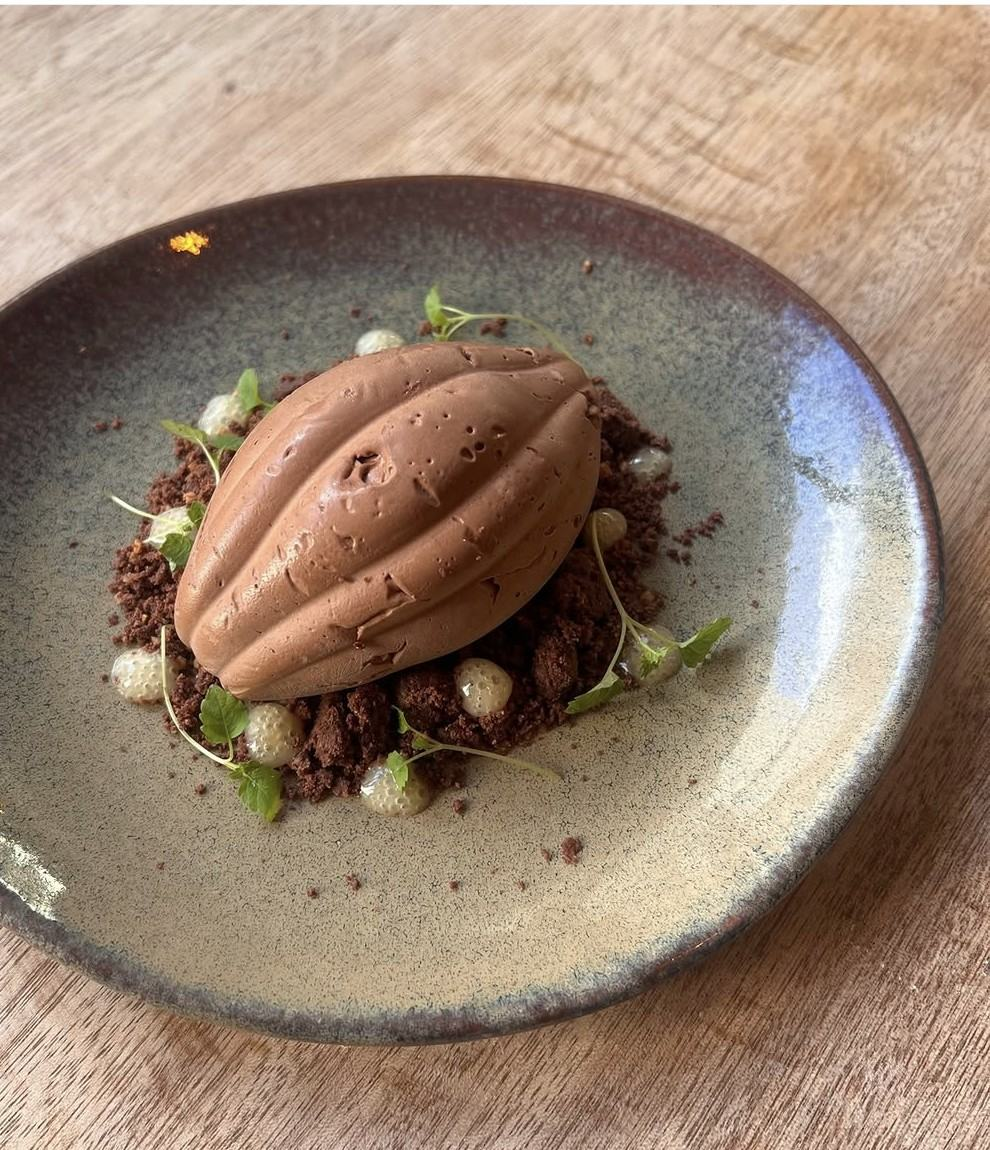
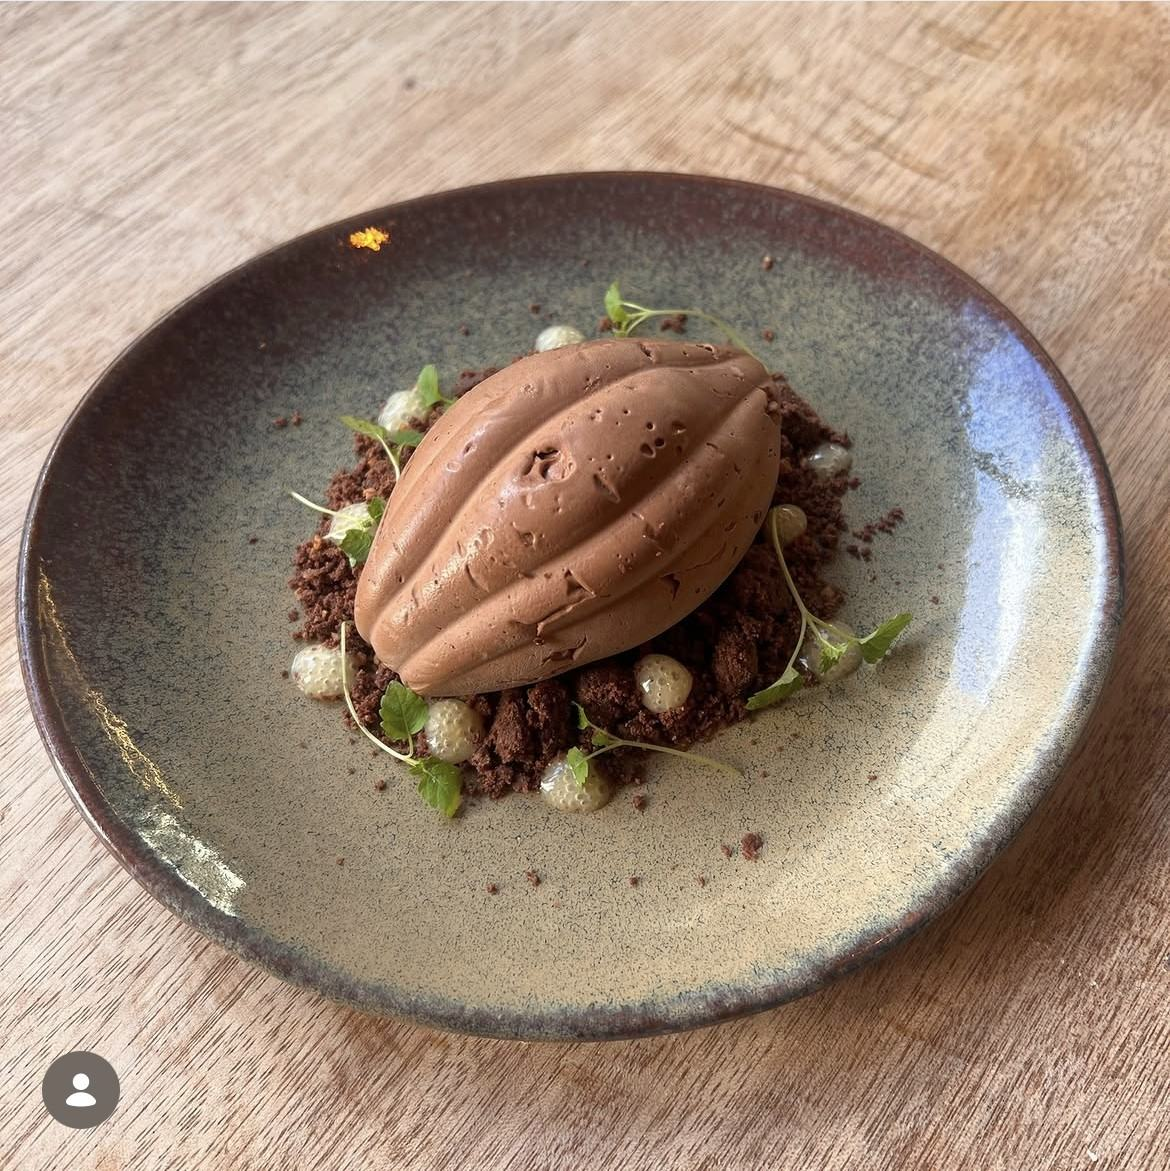
actualise
actu

diff --git a/it/restaurant.html b/it/restaurant.html
@@ -122,7 +122,7 @@
     <hr class="divider">
     <div class="actus-grid">
       <img src="../img/resto-plat-chou-fleur.jpg" alt="Cavolfiore in tre modi, purea di cavolfiore al tahini, cavolfiore arrosto, tabbouleh di cavolfiore" style="border-radius:6px;height:220px;width:100%;object-fit:cover;">
-      <img src="../img/resto-plat-tataki.jpg" alt="Tataki di tonno, purea di avocado al caffè, chimichurri filippino" style="border-radius:6px;height:220px;width:100%;object-fit:cover;">
+      <img src="../img/resto-plat-ravioles.jpg" alt="Ravioli gratinati allo zafferano, specialità di Franquette" style="border-radius:6px;height:220px;width:100%;object-fit:cover;">
       <img src="../img/resto-plat-chocolat.jpg" alt="Entremet al cioccolato e caffè a forma di baccello di cacao" style="border-radius:6px;height:220px;width:100%;object-fit:cover;">
     </div>
   </div>

diff --git a/de/restaurant.html b/de/restaurant.html
@@ -122,7 +122,7 @@
     <hr class="divider">
     <div class="actus-grid">
       <img src="../img/resto-plat-chou-fleur.jpg" alt="Blumenkohl auf drei Arten, Blumenkohlpüree mit Tahini, gerösteter Blumenkohl, Blumenkohl-Taboulé" style="border-radius:6px;height:220px;width:100%;object-fit:cover;">
-      <img src="../img/resto-plat-tataki.jpg" alt="Thunfisch-Tataki, Avocadopüree mit Kaffee, philippinisches Chimichurri" style="border-radius:6px;height:220px;width:100%;object-fit:cover;">
+      <img src="../img/resto-plat-ravioles.jpg" alt="Gratinierte Safran-Ravioli, die Spezialität von Franquette" style="border-radius:6px;height:220px;width:100%;object-fit:cover;">
       <img src="../img/resto-plat-chocolat.jpg" alt="Schokoladen-Kaffee-Entremet in Form einer Kakaoschote" style="border-radius:6px;height:220px;width:100%;object-fit:cover;">
     </div>
   </div>

diff --git a/restaurant.html b/restaurant.html
@@ -186,7 +186,7 @@
     <hr class="divider">
     <div class="actus-grid">
       <img src="img/resto-plat-chou-fleur.jpg" alt="Chou-fleur en trois façons, purée de chou-fleur au tahini, chou-fleur rôti, taboulé de chou-fleur" style="border-radius:6px;height:220px;width:100%;object-fit:cover;">
-      <img src="img/resto-plat-tataki.jpg" alt="Tataki de thon, purée d&rsquo;avocat au café, chimichurri philippin" style="border-radius:6px;height:220px;width:100%;object-fit:cover;">
+      <img src="img/resto-plat-ravioles.jpg" alt="Ravioles safranées gratinées, spécialité de Franquette" style="border-radius:6px;height:220px;width:100%;object-fit:cover;">
       <img src="img/resto-plat-chocolat.jpg" alt="Entremet chocolat et café en forme de cabosse de cacao" style="border-radius:6px;height:220px;width:100%;object-fit:cover;">
     </div>
   </div>

diff --git a/nl/restaurant.html b/nl/restaurant.html
@@ -122,7 +122,7 @@
     <hr class="divider">
     <div class="actus-grid">
       <img src="../img/resto-plat-chou-fleur.jpg" alt="Bloemkool op drie manieren, bloemkoolpuree met tahini, geroosterde bloemkool, bloemkooltabouleh" style="border-radius:6px;height:220px;width:100%;object-fit:cover;">
-      <img src="../img/resto-plat-tataki.jpg" alt="Tonijntataki, avocadopuree met koffie, Filipijnse chimichurri" style="border-radius:6px;height:220px;width:100%;object-fit:cover;">
+      <img src="../img/resto-plat-ravioles.jpg" alt="Gegratineerde saffraanravioli, specialiteit van Franquette" style="border-radius:6px;height:220px;width:100%;object-fit:cover;">
       <img src="../img/resto-plat-chocolat.jpg" alt="Chocolade-koffie-entremet in de vorm van een cacaopeul" style="border-radius:6px;height:220px;width:100%;object-fit:cover;">
     </div>
   </div>

diff --git a/en/restaurant.html b/en/restaurant.html
@@ -122,7 +122,7 @@
     <hr class="divider">
     <div class="actus-grid">
       <img src="../img/resto-plat-chou-fleur.jpg" alt="Cauliflower three ways, tahini cauliflower purée, roasted cauliflower, cauliflower tabbouleh" style="border-radius:6px;height:220px;width:100%;object-fit:cover;">
-      <img src="../img/resto-plat-tataki.jpg" alt="Tuna tataki, coffee avocado purée, Filipino chimichurri" style="border-radius:6px;height:220px;width:100%;object-fit:cover;">
+      <img src="../img/resto-plat-ravioles.jpg" alt="Gratinated saffron ravioles, Franquette's signature dish" style="border-radius:6px;height:220px;width:100%;object-fit:cover;">
       <img src="../img/resto-plat-chocolat.jpg" alt="Chocolate and coffee entremet shaped like a cocoa pod" style="border-radius:6px;height:220px;width:100%;object-fit:cover;">
     </div>
   </div>

diff --git a/cafe.html b/cafe.html
@@ -41,6 +41,7 @@
     <div>
       <h2 data-txt="cafe.presentation_titre">Le soleil en terrasse de comptoir</h2>
       <p data-txt="cafe.presentation_p1">Pour les amateurs de café, Franquette sert le café de spécialité &Iuml;ota, torréfié par Maxime Henneux à Gordes, dans le Luberon. Et pour tous les autres&nbsp;: matcha, thé à la menthe, jus du jour&hellip;</p>
+      <p data-txt="cafe.presentation_p2">Cookies, cakes et toasts, du petit-déjeuner au goûter. Et à midi, nos ravioles safranées&nbsp;: la spécialité de Franquette depuis 2019&nbsp;!</p>
       <a href="index.html#univers" class="btn dark">Tout Franquette</a>
     </div>
     <div class="split-photos">

diff --git a/de/cafe.html b/de/cafe.html
@@ -41,6 +41,7 @@
     <div>
       <h2 data-txt="cafe.presentation_titre">Sonne an der Theke</h2>
       <p data-txt="cafe.presentation_p1">Für Kaffeeliebhaber serviert Franquette den Spezialitätenkaffee &Iuml;ota, geröstet von Maxime Henneux in Gordes, im Luberon. Und für alle anderen: Matcha, Pfefferminztee, Saft des Tages&hellip;</p>
+      <p data-txt="cafe.presentation_p2">Cookies, Kuchen und Toasts, vom Frühstück bis zum Nachmittagssnack. Und mittags unsere Safran-Ravioli: die Spezialität von Franquette seit 2019!</p>
       <a href="index.html#univers" class="btn dark">Ganz Franquette</a>
     </div>
     <div class="split-photos">

diff --git a/en/cafe.html b/en/cafe.html
@@ -41,6 +41,7 @@
     <div>
       <h2 data-txt="cafe.presentation_titre">Sunshine at the counter</h2>
       <p data-txt="cafe.presentation_p1">For coffee lovers, Franquette serves &Iuml;ota specialty coffee, roasted by Maxime Henneux in Gordes, in the Luberon. And for everyone else: matcha, mint tea, juice of the day&hellip;</p>
+      <p data-txt="cafe.presentation_p2">Cookies, cakes and toasts, from breakfast to afternoon snack. And at lunchtime, our saffron ravioles: Franquette&rsquo;s signature dish since 2019!</p>
       <a href="index.html#univers" class="btn dark">All of Franquette</a>
     </div>
     <div class="split-photos">

diff --git a/it/cafe.html b/it/cafe.html
@@ -41,6 +41,7 @@
     <div>
       <h2 data-txt="cafe.presentation_titre">Il sole al bancone</h2>
       <p data-txt="cafe.presentation_p1">Per gli amanti del caffè, Franquette serve il caffè speciale &Iuml;ota, tostato da Maxime Henneux a Gordes, nel Luberon. E per tutti gli altri: matcha, tè alla menta, succo del giorno&hellip;</p>
+      <p data-txt="cafe.presentation_p2">Cookies, cake e toast, dalla colazione alla merenda. E a pranzo, i nostri ravioli allo zafferano: la specialità di Franquette dal 2019!</p>
       <a href="index.html#univers" class="btn dark">Tutto Franquette</a>
     </div>
     <div class="split-photos">

diff --git a/nl/cafe.html b/nl/cafe.html
@@ -41,6 +41,7 @@
     <div>
       <h2 data-txt="cafe.presentation_titre">Zon aan de toog</h2>
       <p data-txt="cafe.presentation_p1">Voor koffieliefhebbers serveert Franquette specialty koffie van &Iuml;ota, gebrand door Maxime Henneux in Gordes, in de Luberon. En voor alle anderen: matcha, muntthee, sap van de dag&hellip;</p>
+      <p data-txt="cafe.presentation_p2">Cookies, cakes en toasts, van ontbijt tot vieruurtje. En &rsquo;s middags onze saffraanravioli: de specialiteit van Franquette sinds 2019!</p>
       <a href="index.html#univers" class="btn dark">Heel Franquette</a>
     </div>
     <div class="split-photos">

diff --git a/css/style.css b/css/style.css
@@ -60,9 +60,9 @@ header {
   position: fixed;
   top: 0; left: 0; right: 0;
   z-index: 100;
-  background: rgba(255, 253, 250, 0.95);
+  background: rgba(217, 192, 156, 0.95);
   backdrop-filter: blur(6px);
-  border-bottom: 1px solid var(--sable);
+  border-bottom: 1px solid rgba(180, 150, 108, 0.4);
 }
 
 .header-inner {
